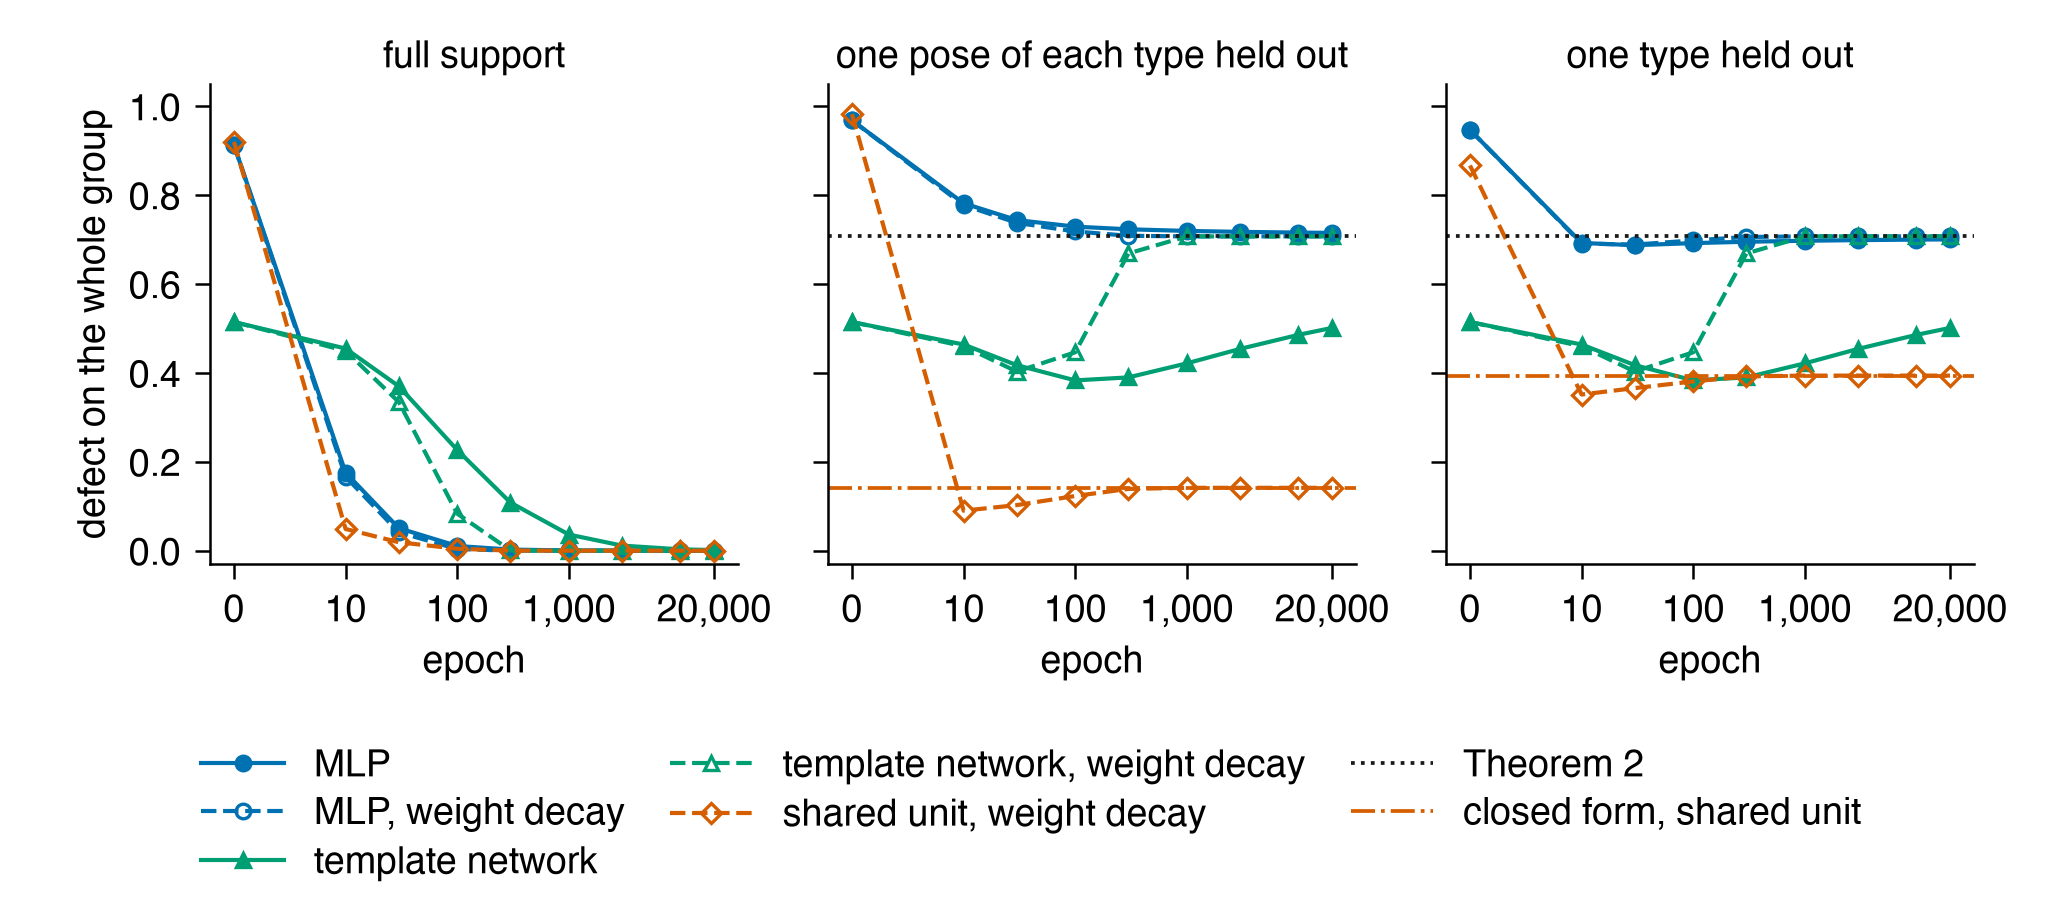
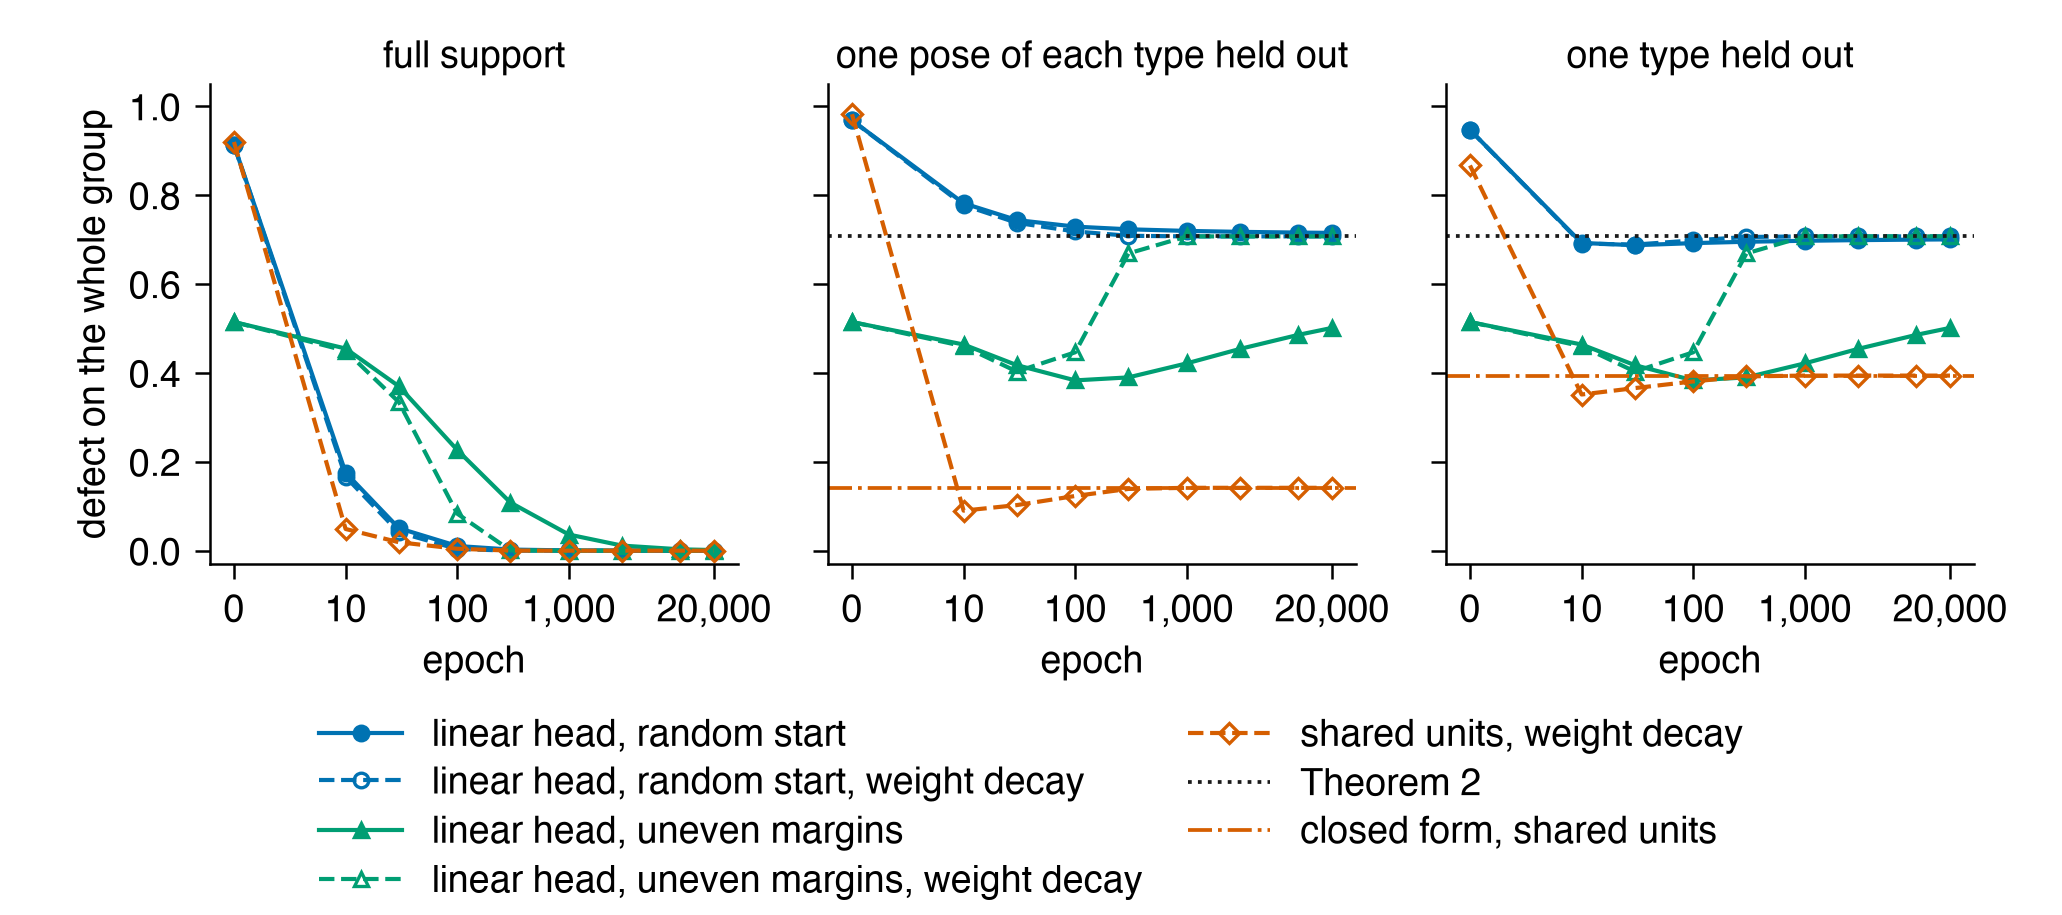
The paper's page: Figure 9's legend names the linear head, the reason for 0.912, and a missed Section F line; data.js's last digits
Rebuilt by the code release's private/publish_site.py from the paper's source after its final review: Figure 9 names the memorizer toy's networks as the text does (a linear head with no bias, from random weights or from uneven margins, and shared units); B.1 gives unequal coverage as the reason the memorizer's 0.912 is computed; Section F changes the sentence after Theorem 2's proof idea from "every fiber" to "every orbit". data.js now has the last digits the locked Python 3.13 writes (three values).

Changed region(s): [[0.0931, 0.765, 0.9001, 0.9792]]

diff --git a/site/paper.html b/site/paper.html
@@ -420,7 +420,7 @@ code{font-family:var(--mono);font-size:.86em}
 <img style="max-width:1031px;margin:0 auto" src="figures/r3_rotation_angles.png" alt="Accuracy against the angle of the input, from 0 to 360 degrees, with the training arc shaded near 0 and 360. The MLP and the training Bayes rule are near 0.93 on the arc, fall through about 0.65 at its edges, and lie between 0.07 and 0.34 farther from upright. The deployment Bayes rule stays near 0.85; the MLP trained with rotated inputs is flat near 0.8, feature pooling and the log-mean-exp head flat near 0.84, and the spectral features flat near 0.69." />
 <figcaption><strong>Figure 11.</strong> Accuracy at each angle of the input on the rotated shapes with shared holes, where every class is trained within 30 degrees of upright (shaded). Each point is the accuracy on the deployment draws of the first independent run whose angle falls in that bin of 15 degrees; the Bayes rules are scored on the same draws. The MLP follows the training Bayes rule, accurate on the arc that training shows and far less accurate off it; the other four networks of <a href="#tbl-supp-networks">Table 1</a> are about as accurate at every angle, feature pooling and the log-mean-exp head close to the deployment Bayes rule and the spectral features below it. Only the first of three independent runs and only this setting are shown, and accuracy during training is not shown.</figcaption>
 </figure>
-<p><strong>Theorem 2 on the rotated shapes.</strong> A linear head with no bias, which contains the per-pose memorizer, solved to its minimum by Newton’s method at weight decay 0.02 and 0.002, gives the formula on orthonormal renders to <span class="math inline">7\times10^{-16}</span>, with zero logits at every hole: on orthonormal renders its minimizer has the memorizer’s centred field. On the rotated shapes’ own clean renders, which overlap at every angle, the head is less invariant than the memorizer on the shapes with shared holes, 0.984–0.990 at <span class="math inline">\mathbb Z_{63}</span> against the memorizer’s 0.909 on those clean renders, and nearly invariant on the control, 0.035–0.053. The MLP was also trained with weight decay, <span class="math inline">10^{-4}</span> or <span class="math inline">3\times10^{-4}</span> in Adam and otherwise as in the main paper, which lowered its accuracy on the training distribution by at most 0.037, and evaluated on 1,008 test inputs with their 63 grid rotations beside the memorizer’s value on the same inputs. Each range below is over the networks at both weight decays. On the shapes with shared holes its defect at <span class="math inline">\mathbb Z_{63}</span> is 0.866–0.878 (0.882–0.908 without weight decay) against 0.912, the memorizer’s defect computed on those test inputs (their renders overlap, so the formula does not apply); with holes by class it is 0.577–0.625 against 0.350, and on the control with shared holes 0.122–0.144 against 0.912. Its holes are not at zero. On the shapes, the mean margin (the true class’s logit minus the largest other) at unseen poses within 10° of the seen arc is 0.34–0.56 of the mean at seen poses, and from 30° to 60° it is −2.27 to −3.86 of it, so on average another class’s logit is above the true class’s there; the control with shared holes keeps 0.77–0.95 of it.</p>
+<p><strong>Theorem 2 on the rotated shapes.</strong> A linear head with no bias, which contains the per-pose memorizer, solved to its minimum by Newton’s method at weight decay 0.02 and 0.002, gives the formula on orthonormal renders to <span class="math inline">7\times10^{-16}</span>, with zero logits at every hole: on orthonormal renders its minimizer has the memorizer’s centred field. On the rotated shapes’ own clean renders, which overlap at every angle, the head is less invariant than the memorizer on the shapes with shared holes, 0.984–0.990 at <span class="math inline">\mathbb Z_{63}</span> against the memorizer’s 0.909 on those clean renders, and nearly invariant on the control, 0.035–0.053. The MLP was also trained with weight decay, <span class="math inline">10^{-4}</span> or <span class="math inline">3\times10^{-4}</span> in Adam and otherwise as in the main paper, which lowered its accuracy on the training distribution by at most 0.037, and evaluated on 1,008 test inputs with their 63 grid rotations beside the memorizer’s value on the same inputs. Each range below is over the networks at both weight decays. On the shapes with shared holes its defect at <span class="math inline">\mathbb Z_{63}</span> is 0.866–0.878 (0.882–0.908 without weight decay) against 0.912, the memorizer’s defect computed on those test inputs (each test input sits at a continuous angle, so 10 or 11 of its 63 grid rotations fall in the seen arc, and the formula needs the same number in every orbit); with holes by class it is 0.577–0.625 against 0.350, and on the control with shared holes 0.122–0.144 against 0.912. Its holes are not at zero. On the shapes, the mean margin (the true class’s logit minus the largest other) at unseen poses within 10° of the seen arc is 0.34–0.56 of the mean at seen poses, and from 30° to 60° it is −2.27 to −3.86 of it, so on average another class’s logit is above the true class’s there; the control with shared holes keeps 0.77–0.95 of it.</p>
 <h3 id="sec-supp-shifts">Shifted images (Section 7)</h3>
 <p><strong>Shifted digits on the torus.</strong></p>
 <ul>
@@ -640,6 +640,7 @@ code{font-family:var(--mono);font-size:.86em}
 <li><strong>Page 2, lines 075–076.</strong> Delete “and loses accuracy”. The proofs cover the deployment cost; Lemma 1 bounds the change in accuracy, and the drop is measured.</li>
 <li><strong>Page 5, lines 301–313.</strong> In Theorem 2, change “Let each fiber be one orbit of <span class="math inline">k</span> poses” to “Let <span class="math inline">C\ge2</span>, and let each fiber be a union of orbits of <span class="math inline">k</span> poses, the same number in every fiber”, “If every fiber has the same number <span class="math inline">\lvert S\rvert</span> of seen poses” to “If every orbit has the same number <span class="math inline">s\ge1</span> of seen poses, and the training loss weights every seen item equally”, “the minimizer’s defect” to “the defect of the minimizer’s logits at the clean renders <span class="math inline">t_z</span>”, and <span class="math inline">\sqrt{1-\lvert S\rvert/k}</span> to <span class="math inline">\sqrt{1-s/k}</span>. Section 7 applies the theorem to the digits, where a class holds many orbits, one for each image; <a href="#sec-supp-proofs">Section A</a>’s proof uses these conditions.</li>
 <li><strong>Page 5, line 320.</strong> In the proof idea of Theorem 2, change “Averaging over the fiber keeps <span class="math inline">\lvert S\rvert/k</span>” to “Averaging over each orbit keeps <span class="math inline">s/k</span>”.</li>
+<li><strong>Page 5, lines 322–323.</strong> Change “the same number of seen poses in every fiber” to “the same number of seen poses in every orbit”.</li>
 <li><strong>Page 5, line 332.</strong> At the start of Theorem 3, insert “Let <span class="math inline">\bar f\ne0</span>.” The level shares divide by <span class="math inline">\lVert\bar f\rVert</span>.</li>
 <li><strong>Page 5, lines 345–346.</strong> Change “the smallest subgroup” to “the first subgroup of the chain”. A subgroup outside the chain can fail first.</li>
 <li><strong>Page 8, lines 461–462.</strong> Change “over all sub-stride shifts” to “over the sub-stride shifts along the horizontal axis”. That floor uses horizontal shifts only.</li>

diff --git a/site/data.js b/site/data.js
@@ -244,7 +244,7 @@ window.DATA = {
    },
    "f_S": {
     "train": 0.9387638888888888,
-    "full": 0.3470555555555555,
+    "full": 0.3470555555555556,
     "runs_train": [
      0.9384166666666667,
      0.9395,
@@ -323,8 +323,8 @@ window.DATA = {
     ]
    },
    "spec_long": {
-    "train": 0.7826527777777778,
-    "full": 0.7826527777777778,
+    "train": 0.7826527777777779,
+    "full": 0.7826527777777779,
     "runs_train": [
      0.7897083333333333,
      0.7829166666666667,
